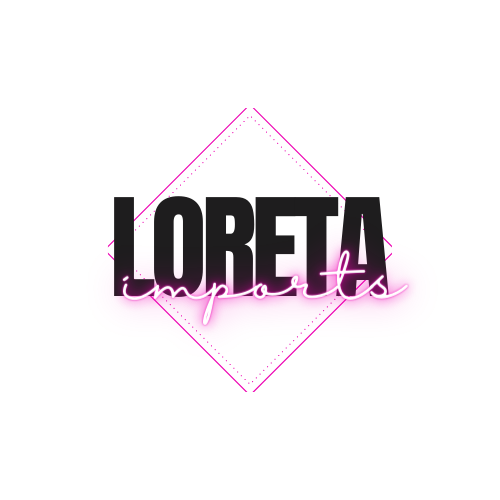
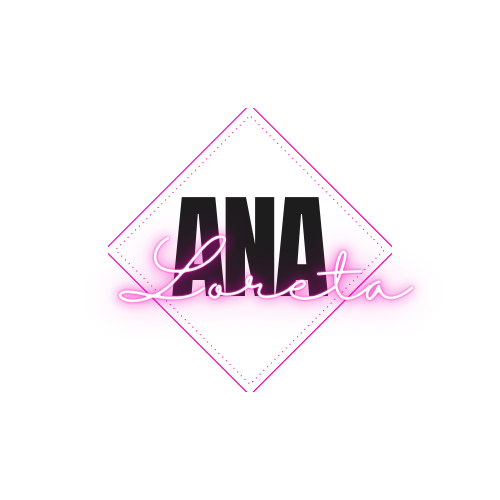
a

Changed region(s): [[0.21, 0.39, 0.84, 0.66]]

diff --git a/index.html b/index.html
@@ -18,17 +18,16 @@
         <h1 class="cabecalho__titulo"><img class="cabecalho__imagem" src="img/ana.png" alt="avatar da fran"></h1>
 
         <ul class="cabecalho__menu">
-            <li class="cabecalho__menu-item">Das mais diversas</li>
-            <li class="cabecalho__menu-item">coisas...</li>
+            <li class="cabecalho__menu-item">Sobre</li>
+            <li class="cabecalho__menu-item">Ana Lívia</li>
         </ul>
 
     </header>
     <main>
         <section class="escola">
             <div class="escola__div">
-                <h2 class="escola__titulo">Mora em Grandes Rios, Paraná </h2>
-                <p class="escola__paragrafo">aqui vou coloar um texto falando sobrea minha escola que é do campo e muito
-                    linda</p>
+                <h2 class="escola__titulo">Mora em, Grandes Rios, </h2>
+                <p class="escola__paragrafo">tem 16 anos</p>
             </div>
             <img class="escola__imagem" src="img/logo.jpeg" alt="foto da escola estadual do campo cerrado das cinzas">
 
